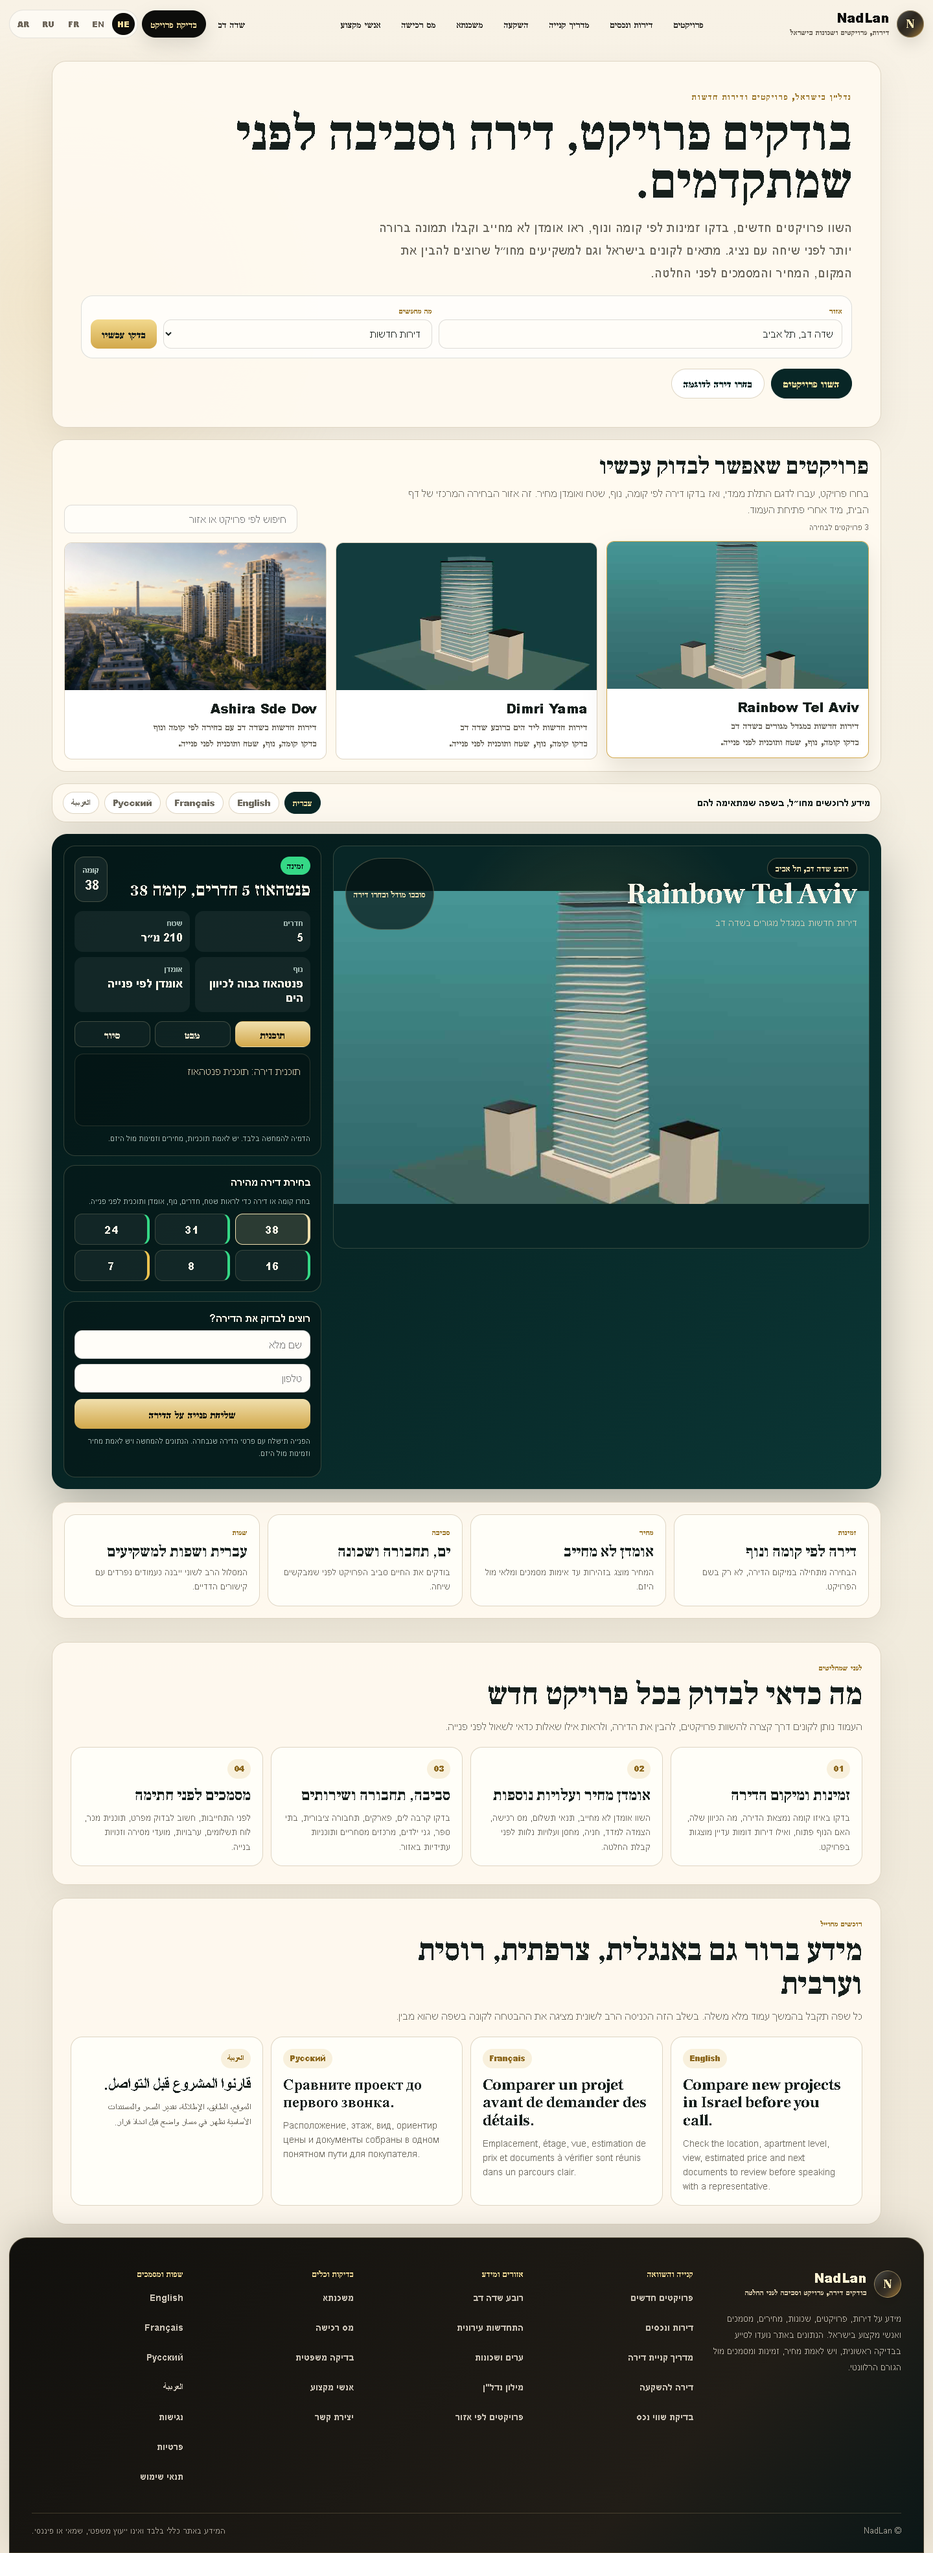
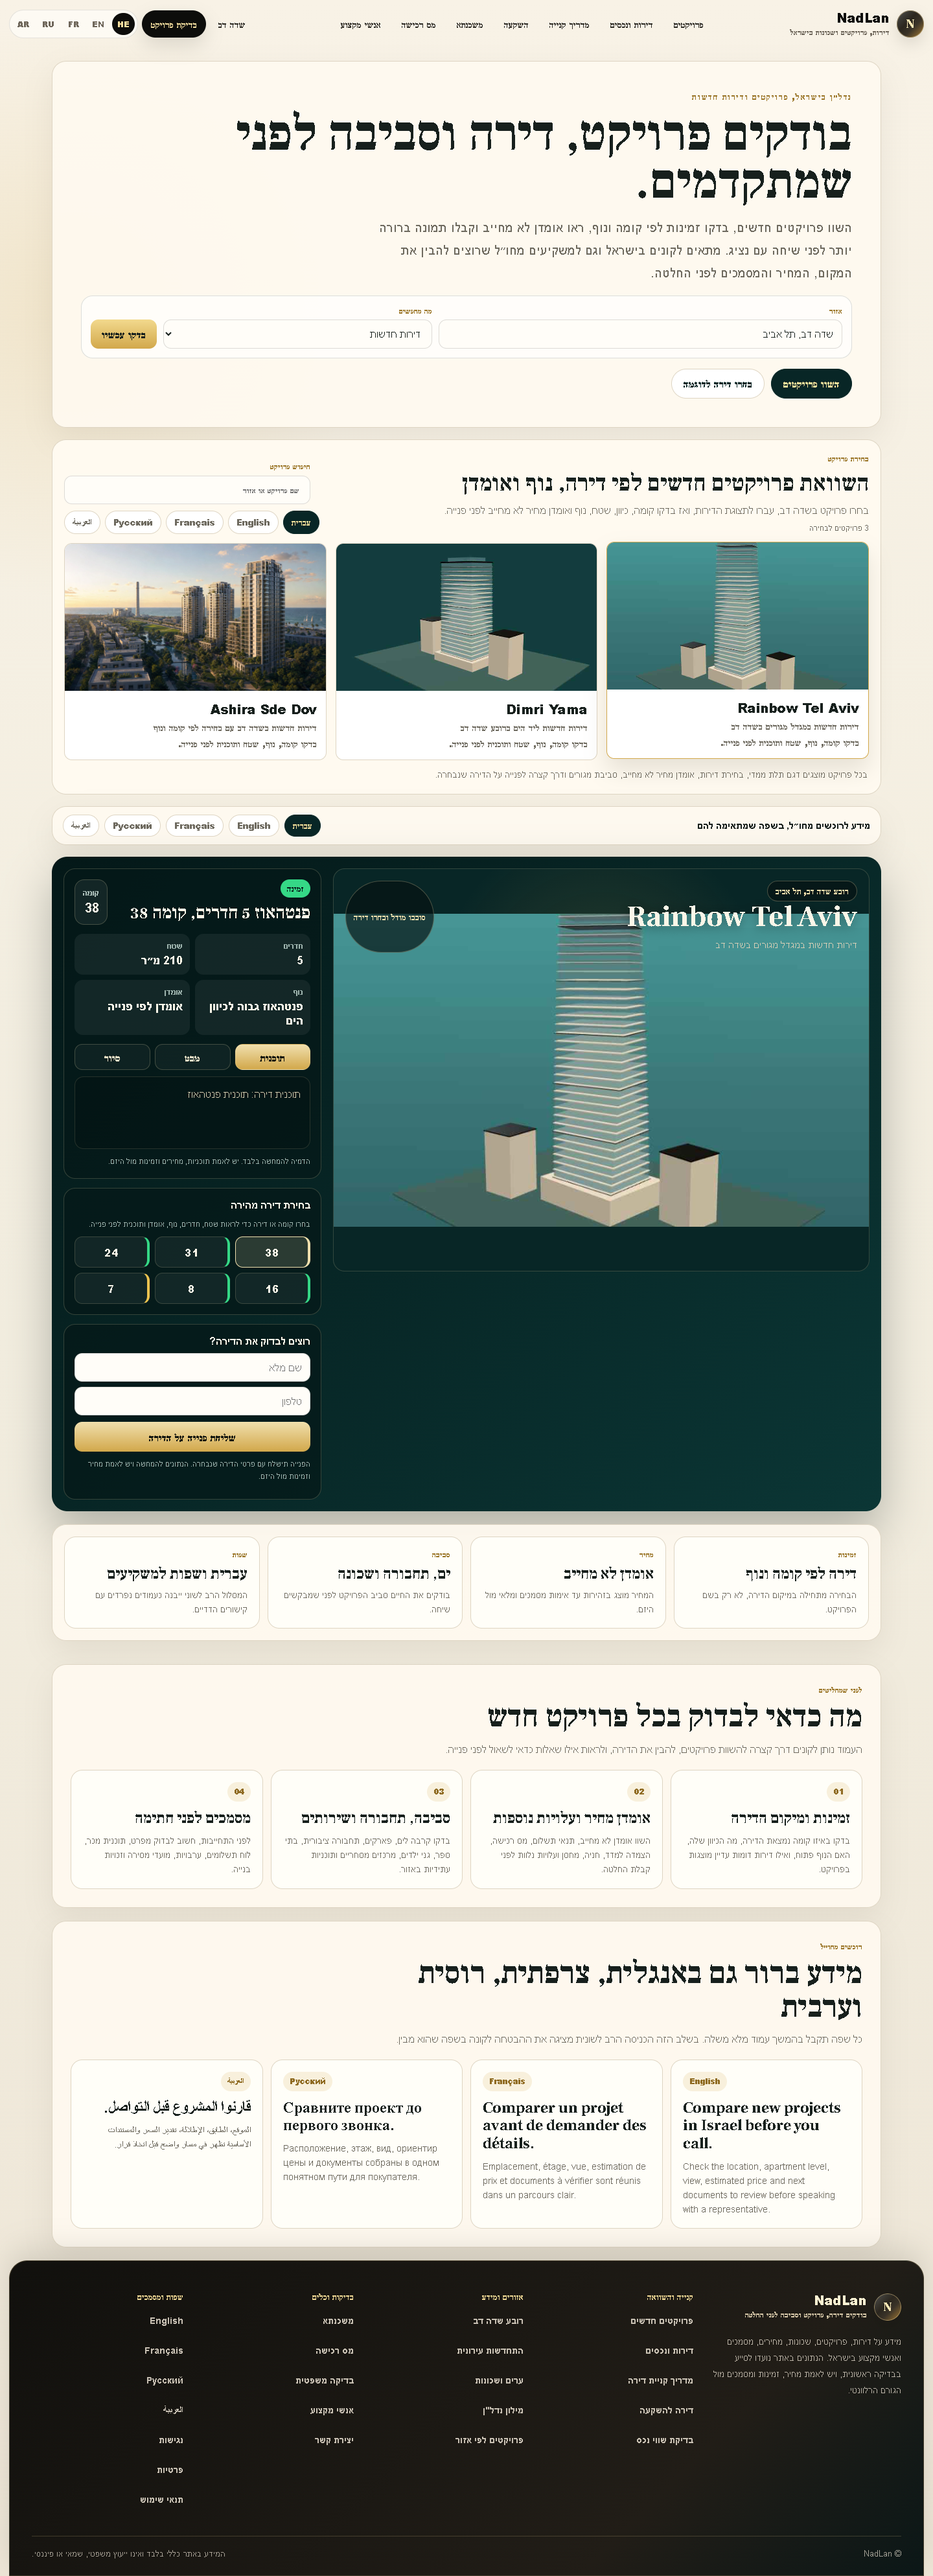
feat: embed multilingual project selector above fold

diff --git a/docs/previews/nadlan-home-showroom-preview.html b/docs/previews/nadlan-home-showroom-preview.html
@@ -458,13 +458,27 @@
 		<section class="nle-catalog" id="projects" aria-labelledby="nle-projects-title">
 			<div class="nle-catalog-head">
 				<div>
-					<h2 id="nle-projects-title">פרויקטים שאפשר לבדוק עכשיו</h2>
-					<p>בחרו פרויקט, עברו לדגם התלת ממדי, ואז בדקו דירה לפי קומה, נוף, שטח ואומדן מחיר. זה אזור הבחירה המרכזי של דף הבית, מיד אחרי פתיחת העמוד.</p>
+					<span class="nlh-home-section-kicker">בחירת פרויקט</span>
+					<h2 id="nle-projects-title">השוואת פרויקטים חדשים לפי דירה, נוף ואומדן</h2>
+					<p>בחרו פרויקט בשדה דב, עברו לתצוגת הדירות, ואז בדקו קומה, כיוון, שטח, נוף ואומדן מחיר לא מחייב לפני פנייה.</p>
 					<p class="nle-note" data-nle-project-count>טוען פרויקטים</p>
 				</div>
-				<input class="nle-search" type="search" placeholder="חיפוש לפי פרויקט או אזור" data-nle-search>
+				<div class="nlh-project-tools">
+					<label class="nlh-project-search">
+						<span>חיפוש פרויקט</span>
+						<input class="nle-search" type="search" placeholder="שם פרויקט או אזור" data-nle-search>
+					</label>
+					<div class="nlh-project-language-rail" aria-label="שפה למידע על פרויקטים">
+						<span class="is-active">עברית</span>
+						<a href="#english" lang="en" dir="ltr">English</a>
+						<a href="#french" lang="fr" dir="ltr">Français</a>
+						<a href="#russian" lang="ru" dir="ltr">Русский</a>
+						<a href="#arabic" lang="ar" dir="rtl">العربية</a>
+					</div>
+				</div>
 			</div>
 			<div class="nle-project-grid" data-nle-project-grid></div>
+			<p class="nlh-catalog-note">בכל פרויקט מוצגים דגם תלת ממדי, בחירת דירות, אומדן מחיר לא מחייב, סביבת מגורים ודרך קצרה לפנייה על הדירה שנבחרה.</p>
 		</section>
 
 		<section class="nlh-home-languages" aria-label="שפות למשקיעים מחו״ל">

diff --git a/assets/css/nadlan-home-showroom.css b/assets/css/nadlan-home-showroom.css
@@ -187,11 +187,75 @@
 	align-items: end;
 }
 
+.nlh-home-section-kicker {
+	display: inline-flex;
+	color: #9b7628;
+	font-size: 12px;
+	font-weight: 900;
+	margin-bottom: 7px;
+}
+
 .nlh-home .nle-catalog-head p {
 	margin: 6px 0 0;
 	color: var(--home-muted);
 	line-height: 1.55;
 	max-width: 720px;
+}
+
+.nlh-project-tools {
+	display: grid;
+	gap: 10px;
+	justify-items: end;
+	min-width: min(430px, 100%);
+}
+
+.nlh-project-search {
+	display: grid;
+	gap: 6px;
+	width: min(380px, 100%);
+	color: #9b7628;
+	font-size: 12px;
+	font-weight: 900;
+}
+
+.nlh-project-search .nle-search {
+	width: 100%;
+}
+
+.nlh-project-language-rail {
+	display: flex;
+	flex-wrap: wrap;
+	gap: 7px;
+	justify-content: flex-end;
+}
+
+.nlh-project-language-rail a,
+.nlh-project-language-rail span {
+	display: inline-flex;
+	align-items: center;
+	justify-content: center;
+	min-height: 36px;
+	border: 1px solid var(--home-line);
+	border-radius: 999px;
+	padding: 0 12px;
+	background: #fff;
+	color: var(--home-muted);
+	text-decoration: none;
+	font-size: 13px;
+	font-weight: 900;
+}
+
+.nlh-project-language-rail .is-active {
+	background: var(--home-deep);
+	border-color: var(--home-deep);
+	color: #f6df9a;
+}
+
+.nlh-catalog-note {
+	margin: 12px 2px 0;
+	color: var(--home-muted);
+	font-size: 14px;
+	line-height: 1.55;
 }
 
 .nlh-home .nle-showroom {
@@ -328,6 +392,15 @@
 		grid-template-columns: 1fr repeat(3, auto);
 	}
 
+	.nlh-project-tools {
+		justify-items: stretch;
+		width: 100%;
+	}
+
+	.nlh-project-language-rail {
+		justify-content: flex-start;
+	}
+
 	.nlh-search-row {
 		grid-template-columns: 1fr;
 	}
@@ -401,6 +474,24 @@
 
 	.nlh-home-languages strong {
 		grid-column: 1 / -1;
+	}
+
+	.nlh-project-language-rail {
+		flex-wrap: nowrap;
+		overflow-x: auto;
+		justify-content: flex-start;
+		padding-bottom: 2px;
+		scrollbar-width: none;
+	}
+
+	.nlh-project-language-rail::-webkit-scrollbar {
+		display: none;
+	}
+
+	.nlh-project-language-rail a,
+	.nlh-project-language-rail span {
+		flex: 0 0 auto;
+		min-height: 38px;
 	}
 
 	.nlh-home-trust {

diff --git a/patterns/nadlan-home-showroom.php b/patterns/nadlan-home-showroom.php
@@ -46,13 +46,27 @@ $projects_js = $theme_uri . 'assets/engine/projects.json';
 		<section class="nle-catalog" id="projects" aria-labelledby="nle-projects-title">
 			<div class="nle-catalog-head">
 				<div>
-					<h2 id="nle-projects-title">פרויקטים שאפשר לבדוק עכשיו</h2>
-					<p>בחרו פרויקט, עברו לדגם התלת ממדי, ואז בדקו דירה לפי קומה, נוף, שטח ואומדן מחיר. זה אזור הבחירה המרכזי של דף הבית, מיד אחרי פתיחת העמוד.</p>
+					<span class="nlh-home-section-kicker">בחירת פרויקט</span>
+					<h2 id="nle-projects-title">השוואת פרויקטים חדשים לפי דירה, נוף ואומדן</h2>
+					<p>בחרו פרויקט בשדה דב, עברו לתצוגת הדירות, ואז בדקו קומה, כיוון, שטח, נוף ואומדן מחיר לא מחייב לפני פנייה.</p>
 					<p class="nle-note" data-nle-project-count>טוען פרויקטים</p>
 				</div>
-				<input class="nle-search" type="search" placeholder="חיפוש לפי פרויקט או אזור" data-nle-search>
+				<div class="nlh-project-tools">
+					<label class="nlh-project-search">
+						<span>חיפוש פרויקט</span>
+						<input class="nle-search" type="search" placeholder="שם פרויקט או אזור" data-nle-search>
+					</label>
+					<div class="nlh-project-language-rail" aria-label="שפה למידע על פרויקטים">
+						<span class="is-active">עברית</span>
+						<a href="#english" lang="en" dir="ltr">English</a>
+						<a href="#french" lang="fr" dir="ltr">Français</a>
+						<a href="#russian" lang="ru" dir="ltr">Русский</a>
+						<a href="#arabic" lang="ar" dir="rtl">العربية</a>
+					</div>
+				</div>
 			</div>
 			<div class="nle-project-grid" data-nle-project-grid></div>
+			<p class="nlh-catalog-note">בכל פרויקט מוצגים דגם תלת ממדי, בחירת דירות, אומדן מחיר לא מחייב, סביבת מגורים ודרך קצרה לפנייה על הדירה שנבחרה.</p>
 		</section>
 
 		<section class="nlh-home-languages" aria-label="שפות למשקיעים מחו״ל">

diff --git a/skills/nadlan-seo-content-design-monetization-rulebook.md b/skills/nadlan-seo-content-design-monetization-rulebook.md
@@ -484,3 +484,5 @@ Homepage metadata rule: the premium homepage needs buyer-facing title, meta desc
 Homepage chrome rule: the premium homepage must not rely on an empty saved WordPress navigation or the default theme footer. The header needs explicit buyer/investor routes: projects, properties, buying guide, investment, mortgage, purchase tax and professionals. The footer needs buyer paths, area guides, tools, languages, accessibility, privacy and terms, plus a clear non-advice note. The gate is `npm run qa:home-chrome`, followed by the screenshot gate; both must pass before a homepage slice is considered ready.
 
 Mobile fold rule: when the multi-project selector is placed above the fold but not at the absolute top, the project cards still need to appear inside the first mobile viewport. The current visual gate measures the project section at 757px on 390px mobile and rejects horizontal overflow, default theme chrome wording, and weak tap targets.
+
+Project selector language rule: the homepage language entry points belong inside the multi-project selector as well as in the deeper international section. The buyer should be able to choose a project and immediately see that English, French, Russian and Arabic support are part of the comparison path. The source gate must reject internal layout language such as "homepage selection area" and the screenshot gate must require at least five language entries inside `.nle-catalog`.

diff --git a/docs/qa/2026-06-27-home-showroom-preview.md b/docs/qa/2026-06-27-home-showroom-preview.md
@@ -15,7 +15,7 @@ This slice adds a verified homepage preview that places the multi-project showro
 
 - Public copy speaks to buyers, families and foreign investors.
 - No public wording about internal systems, funnel language, CMS, strategy or monetization.
-- The first screen includes: one H1, search fields, language entry points, and the multi-project project cards.
+- The first screen includes: one H1, search fields, language entry points inside the project selector, and the multi-project project cards.
 - The project engine reuses `assets/engine/projects.json` so Rainbow, Dimri Yama and Ashira remain one data source.
 
 ## Chrome Gate
@@ -36,6 +36,7 @@ Expected:
 - Premium header has at least 7 real-estate routes.
 - Footer has at least 20 buyer, area, tool, language and legal links.
 - At least 5 language entries.
+- At least 5 language entries inside the project selector.
 - 4 real language target sections.
 - 4 buyer-path cards.
 - At least 3 project cards.
@@ -65,6 +66,7 @@ Measured:
 
 - Desktop project section starts at 677.94px.
 - Mobile project section starts at 757.25px, inside the first 900px viewport.
+- Catalog language entries: 5.
 - Header routes: 7.
 - Footer links: 23.
 - Desktop buyer-path cards: 4.
